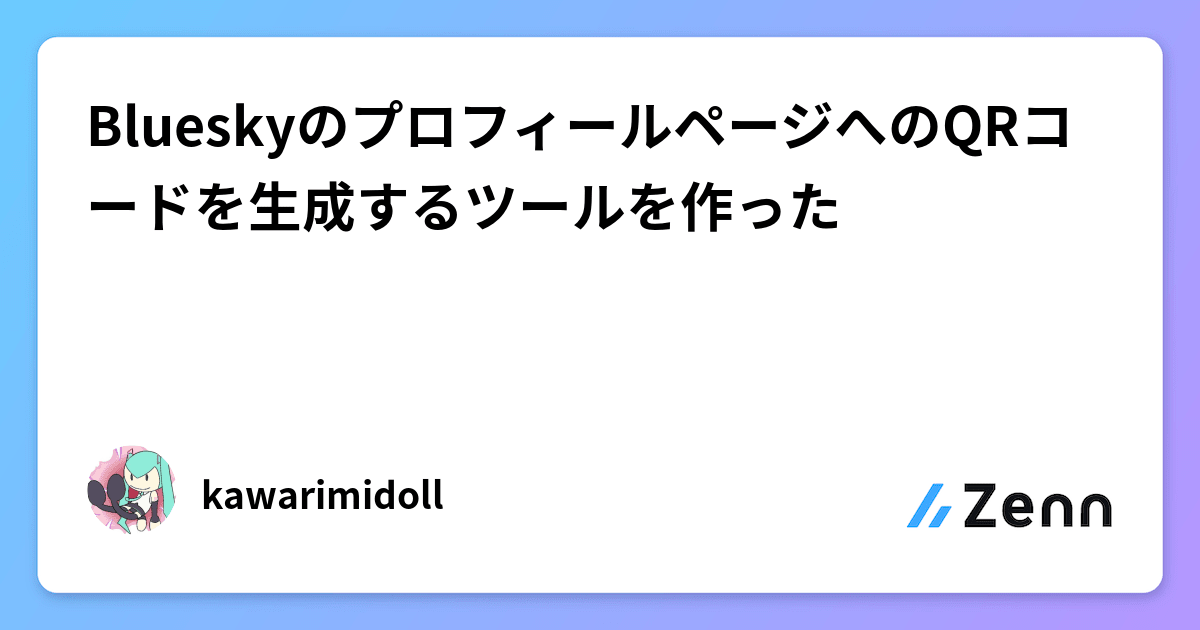
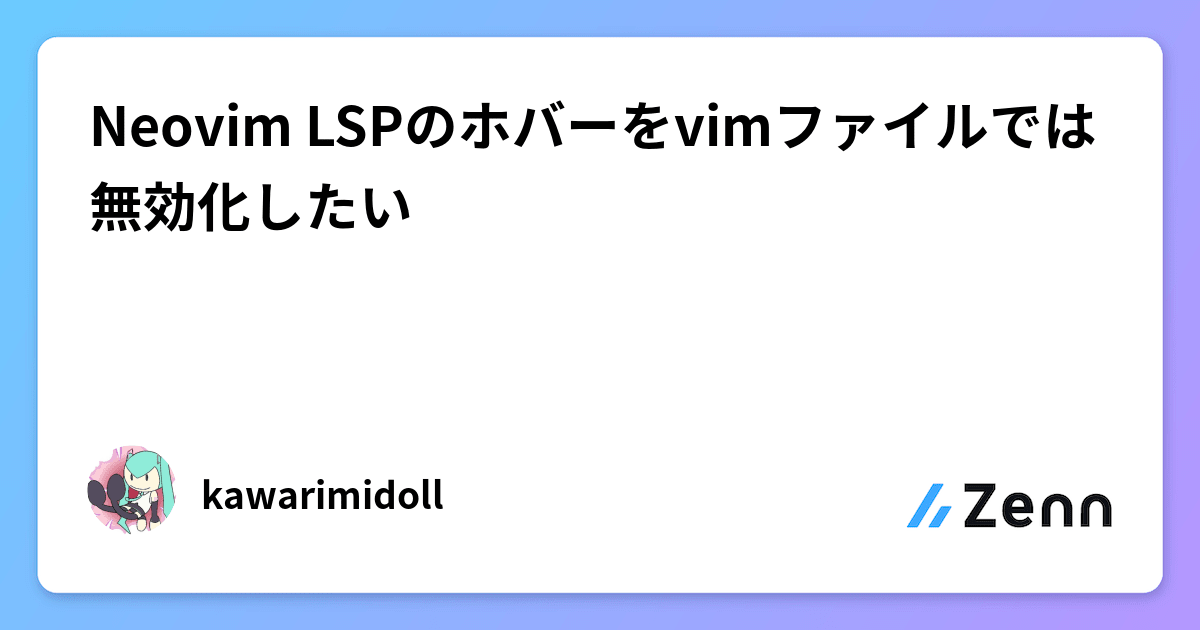
update readme

Changed region(s): [[0.0617, 0.1508, 0.7092, 0.3921], [0.5242, 0.1508, 0.925, 0.2714]]

diff --git a/README.md b/README.md
@@ -46,7 +46,7 @@ Here are some ideas to get you started:
 
 <p align="center">
 <!-- zenn-article-link-next-line -->
-<a href="https://zenn.dev/kawarimidoll/articles/23c5a421da053c"><img alt="Zenn" src="assets/zenn.png" style="width:480px"></a>
+<a href="https://zenn.dev/kawarimidoll/articles/408debb68264ae"><img alt="Zenn" src="assets/zenn.png" style="width:480px"></a>
 </p>
 
 ## 🌟 Misc
